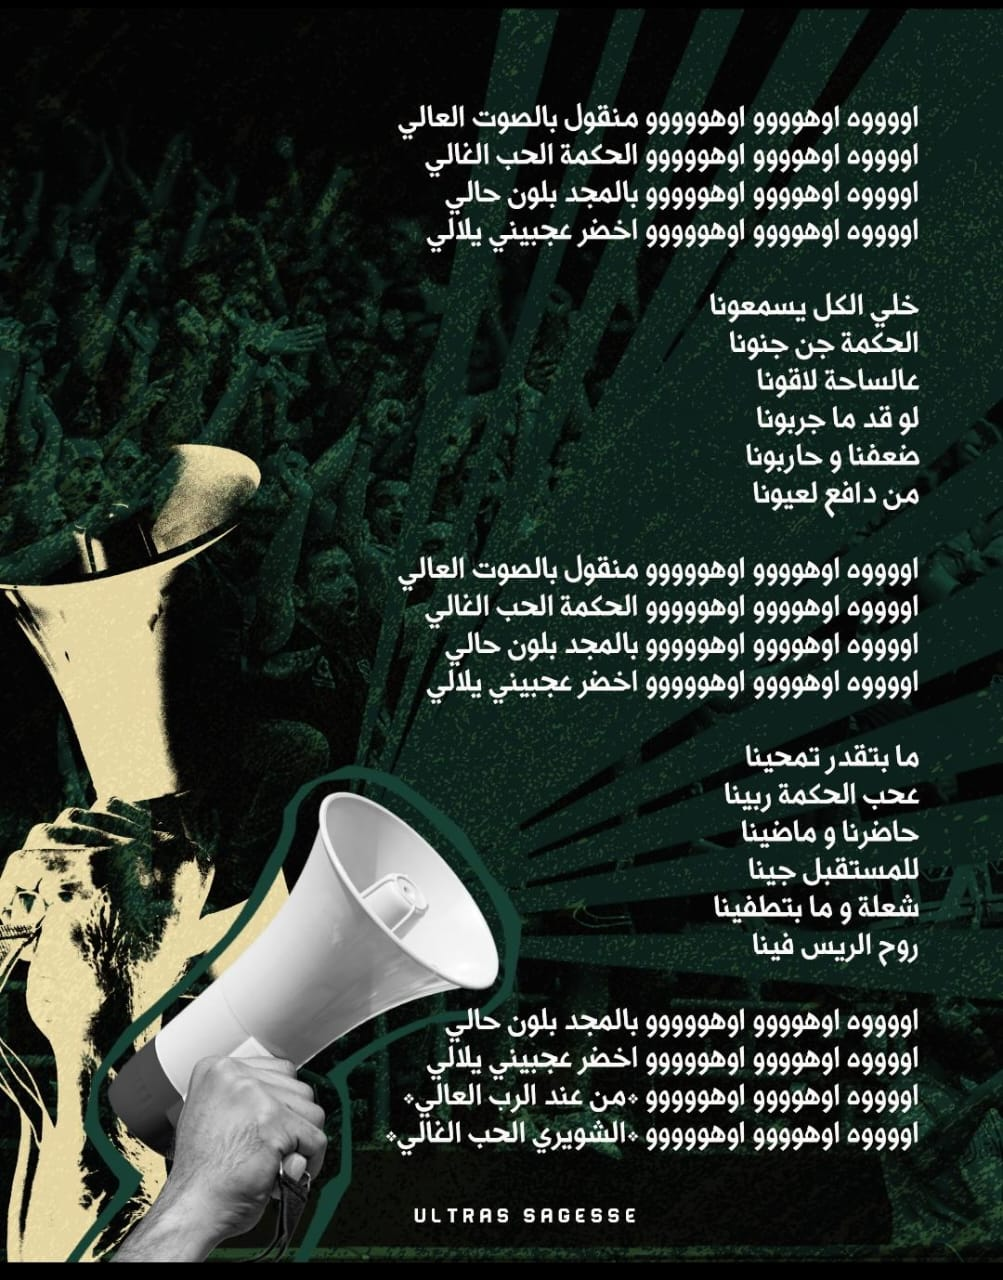
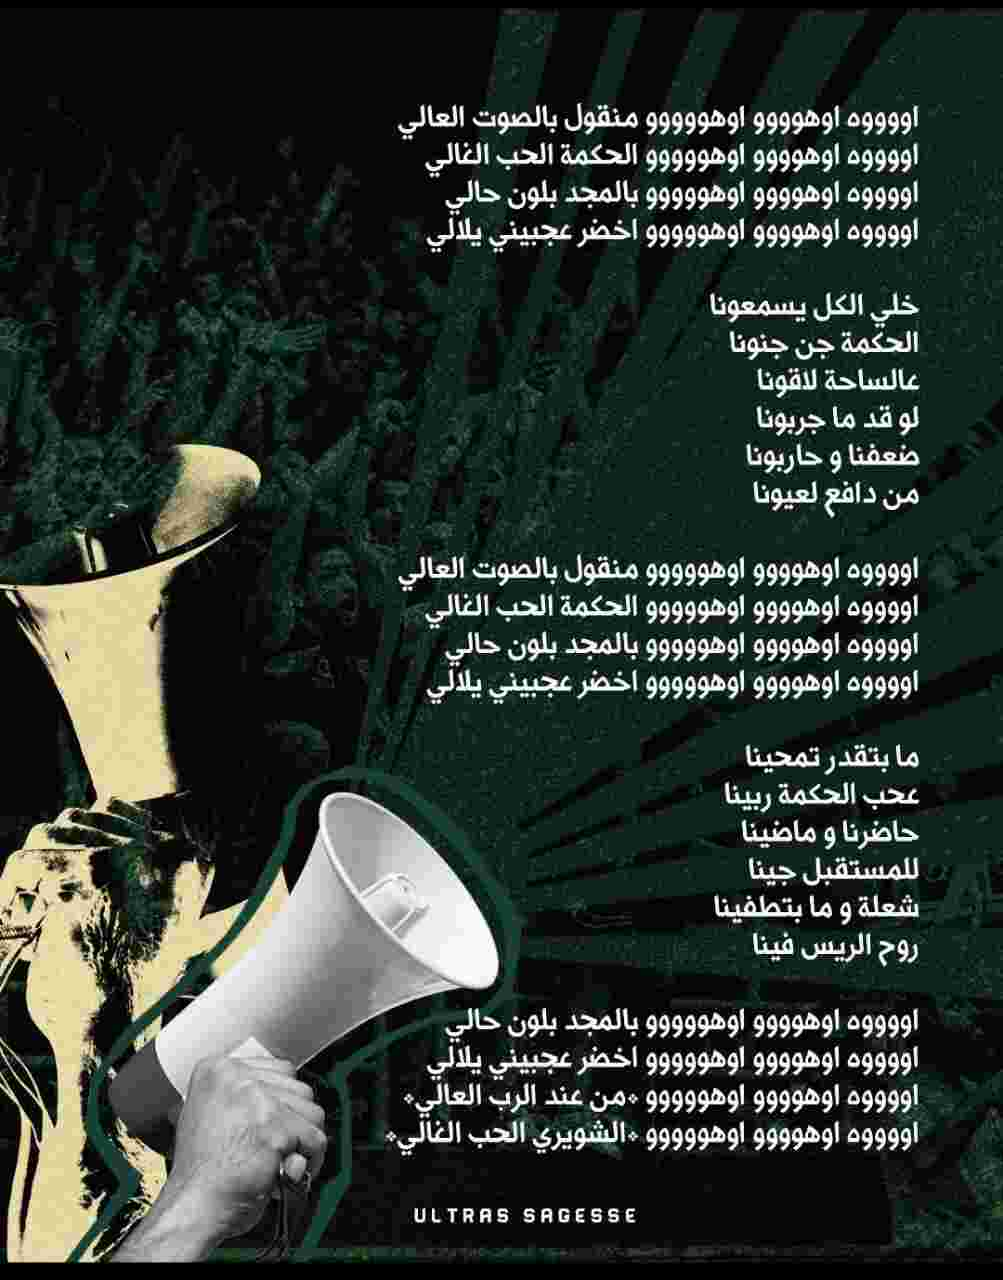
images opt

diff --git a/index.html b/index.html
@@ -104,7 +104,7 @@
         </div>
         <div class="about-image">
           <img
-            src="images/image6.png"
+            src="images/image66.jpg"
             alt=" About Ultras sagesse"
             class="about-img2"
           />
@@ -188,7 +188,7 @@
           </div>
         </div>
         <div class="events-image">
-          <img src="images/w3.png" />
+          <img src="images/w3.jpg" />
         </div>
       </div>
     </section>
@@ -198,42 +198,48 @@
       <div class="grid-container">
         <div class="grid-item">
           <img
-            src="images/image1.jpeg"
+            src="images/image1-mobile.jpeg"
+            class="gallery-img1"
             alt="Image 1"
             onclick="openImage('images/image1.jpeg')"
           />
         </div>
         <div class="grid-item">
           <img
-            src="images/image2.jpg"
+            src="images/image2-mobile.jpg"
+            class="gallery-img2"
             alt="Image 2"
             onclick="openImage('images/image2.jpg')"
           />
         </div>
         <div class="grid-item">
           <img
-            src="images/image3.jpeg"
+            src="images/image3-mobile.jpeg"
+            class="gallery-img3"
             alt="Image 3"
             onclick="openImage('images/image3.jpeg')"
           />
         </div>
         <div class="grid-item">
           <img
-            src="images/image4.jpg"
+            src="images/image4-mobile.jpg"
+            class="gallery-img4"
             alt="Image 4"
             onclick="openImage('images/image4.jpg')"
           />
         </div>
         <div class="grid-item">
           <img
-            src="images/image5.jpg"
+            src="images/image5-mobile.jpg"
+            class="gallery-img5"
             alt="Image 5"
             onclick="openImage('images/image5.jpg')"
           />
         </div>
         <div class="grid-item">
           <img
-            src="images/image62.png"
+            src="images/image6-mobile.png"
+            class="gallery-img6"
             alt="Image 6"
             onclick="openImage('images/image62.png')"
           />
@@ -249,7 +255,7 @@
       <h2 class="title-color">Chants & Songs</h2>
       <div class="container">
         <div id="chants-and-songs">
-          <img src="images/joe_chamoun_cover_2.png" class="song-cover" />
+          <img src="images/joe_chamoun_cover_2.jpg" class="song-cover" />
         </div>
         <div class="lyrics">
           <div class="song-container">
@@ -259,8 +265,8 @@
               Your browser does not support the audio element.
             </audio>
           </div>
-          <img src="images/lyrics1.jpg" class="lyricsimg" />
-          <img src="images/lyrics2.jpg" class="lyricsimg" />
+          <img src="images/lyrics1.jpg" class="lyricsimg lyrics1" />
+          <img src="images/lyrics2.jpg" class="lyricsimg lyrics2" />
         </div>
       </div>
     </section>
@@ -268,8 +274,12 @@
       <h2 class="title-color">Merchandise</h2>
       <div class="merchandise-grid">
         <div class="merch-item">
-          <img src="images/ultras_t_shirt1.jfif" alt="Merchandise Image" />
-          <h3>Merch Item 1</h3>
+          <img
+            src="images/ultras_t_shirt1.jpg"
+            alt="Merchandise Image"
+            class="merch1-mobile"
+          />
+          <h3>Ultras T-Shirt 1</h3>
           <p>$19.99</p>
           <a
             href="#"
@@ -279,8 +289,12 @@
           >
         </div>
         <div class="merch-item">
-          <img src="images/ultras-t-shirt2.jfif" alt="Merchandise Image" />
-          <h3>Merch Item 2</h3>
+          <img
+            src="images/ultras-t-shirt2.jpg"
+            alt="Merchandise Image"
+            class="merch2-mobile"
+          />
+          <h3>Ultras T-Shirt 2</h3>
           <p>$24.99</p>
           <a
             href="#"

diff --git a/styles.css b/styles.css
@@ -1009,19 +1009,48 @@ audio {
         padding-left: 0;
         padding-top: 0.5rem;
     }
-    .about-img1 {
-        content: url('./images/about-mobile.jpg');
+      
+      /*gallery*/
+      .gallery-img1{
+        content: url('./images/gallery1-mobile.jpeg');
       }
-      .about-img2 {
-        content: url('./images/image6-mobile.png');
+      .gallery-img2{
+        content: url('./images/gallery2-mobile.jpg');
+      }
+      .gallery-img3{
+        content: url('./images/gallery3-mobile.jpeg');
+      }
+      .gallery-img4{
+        content: url('./images/gallery4-mobile.jpg');
+      }
+      .gallery-img5{
+        content: url('./images/gallery5-mobile.jpg');
+      }
+      .gallery-img6{
+        content: url('./images/gallery6-mobile.png');
       }
    
       /*songs*/
       #chants-and-songs .song-cover{
+        content: url('./images/joe_chamoun_cover_2-mobile.jpg');
         height:600px; 
         }
+        .lyrics .lyrics1{
+            content: url('./images/lyrics1-mobile.jpg');
+          }
+          .lyrics .lyrics2{
+            content: url('./images/lyrics2-mobile.jpg');
+          }
         .lyrics .lyricsimg{
             height: 300px;
+         }
+        
+         /*merch*/
+         .merch1-mobile{
+            content: url('./images/ultras_t_shirt1-mobile.jpg');
+         }
+         .merch2-mobile{
+            content: url('./images/ultras-t-shirt2-mobile.jpg');
          }
           /*contact*/
           .contact-container{
@@ -1144,6 +1173,16 @@ audio {
 
 }
 @media screen and (max-width: 524.98px) {
+    /*hero*/
+    .hero-img1 {
+        content: url('./images/image5-xsm.jpg');
+      }
+      .hero-img2 {
+        content: url('./images/image3-xsm.jpeg');
+      }
+      .hero-img3 {
+        content: url('./images/image1-xsm.jpeg');
+      }
       /*events*/
       .event-details p {
         font-size: 14px;
@@ -1228,6 +1267,14 @@ audio {
       }
       .chant audio{
         max-width: 80%;
+    }
+    /*merch*/
+    .merch-item p{
+        font-size:medium;
+        font-weight: 500;
+    }
+    .merch-item h3{
+        font-size: 16px;
     }
      /*songs*/
     #chants-and-songs .song-cover{

diff --git a/script.js b/script.js
@@ -75,6 +75,34 @@ function closeImage() {
   modal.style.display = "none";
 }
 
+// Update the onclick attribute for modal based on screen size
+function updateImageOnClick() {
+  var imgElements = document.querySelectorAll(".grid-item img");
+  var imageMappings = [
+    { desktop: "images/image1.jpeg", mobile: "images/image1-mobile.jpeg" },
+    { desktop: "images/image2.jpg", mobile: "images/image2-mobile.jpg" },
+    { desktop: "images/image3.jpeg", mobile: "images/image3-mobile.jpeg" },
+    { desktop: "images/image4.jpg", mobile: "images/image4-mobile.jpg" },
+    { desktop: "images/image5.jpg", mobile: "images/image5-mobile.jpg" },
+    { desktop: "images/image62.png", mobile: "images/image6-mobile.png" },
+  ];
+
+  imgElements.forEach((imgElement, index) => {
+    var desktopImageUrl = imageMappings[index].desktop;
+    var mobileImageUrl = imageMappings[index].mobile;
+
+    if (window.innerWidth <= 768) {
+      imgElement.setAttribute("onclick", `openImage('${mobileImageUrl}')`);
+    } else {
+      imgElement.setAttribute("onclick", `openImage('${desktopImageUrl}')`);
+    }
+  });
+}
+
+// Update the image onclick attribute on page load and on window resize
+window.addEventListener("load", updateImageOnClick);
+window.addEventListener("resize", updateImageOnClick);
+
 //Whatsapp message
 function sendWhatsAppMessage(productName, productPrice, imageUrl) {
   const phoneNumber = "96176585971";

diff --git a/about.html b/about.html
@@ -60,9 +60,8 @@
                 </div>
                 <div class="image sm">
                   <img
-                    src="images/about.jpg"
+                    src="images/about-mobile.jpg"
                     alt="Ultras Sagesse celebrating"
-                    class="about-img1"
                   />
                 </div>
               </div>
@@ -79,10 +78,9 @@
                 </div>
                 <div class="image sm">
                   <img
-                    src="images/image6.png"
+                    src="images/image66.jpg"
                     class="img1"
                     alt="Ultras Sagesse celebrating"
-                    class="about-img2"
                   />
                 </div>
               </div>
